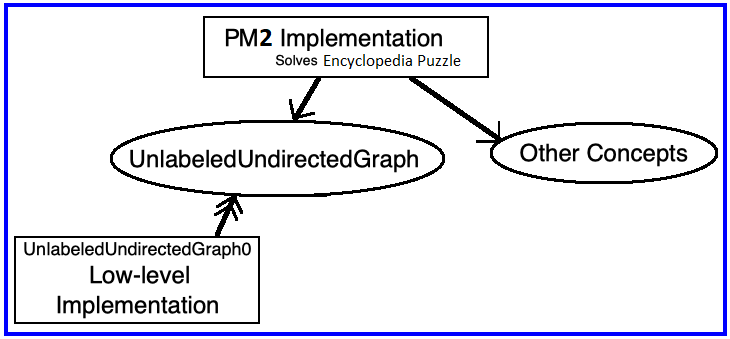
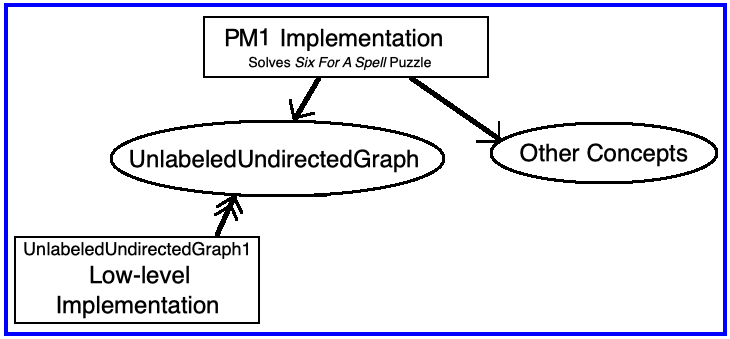
initial changes for 2024

Changed region(s): [[0.3315, 0.0885, 0.6329, 0.2065], [0.3315, 0.708, 0.3616, 0.767]]

diff --git a/Assignments/2024/PM2/PM2.html b/Assignments/2024/PM2/PM2.html
@@ -3,12 +3,12 @@
 <html>
 <head>
 <meta charset="utf-8">
-<title>Project M2</title>
+<title>Project M1</title>
 <link href="../../../css/style.css" rel="stylesheet" type="text/css">
 </head>
 
 <body>
-<h1>Project M5</h1>
+<h1>Project M1</h1>
 <hr />
 	
 		
@@ -17,18 +17,18 @@
   <tbody>
     <tr>
       <td valign="top">
-		  <h4>1.1 Get the PM2Starter Download</h4>
+		  <h4>1.1 Get the PM1Starter Download</h4>
         <ul>
-          <li>Download <em>PM2Starter.zip</em>&nbsp;to your machine - to be used in subsequent steps</li>
+          <li>Download <em>PM1Starter.zip</em>&nbsp;to your machine - to be used in subsequent steps</li>
         </ul>
 		
 		
-        <h4>1.2 Copy the PM2 Folder from the PM2Starter.zip</h4>
+        <h4>1.2 Copy the PM1 Folder from the PM1Starter.zip</h4>
         <ul>
-          <li>Inside PM2Starter.zip is a folder named PM2 </li>
+          <li>Inside PM1Starter.zip is a folder named PM1 </li>
 			    <ul>
-          <li>Copy the PM2 folder to your <em>csse373devenv202330-yourID</em> folder as shown in the screen shot in Figure 1</li>
-          <li>Once you have copied this folder you can use VS2022 to open the PM2 project by double clicking on PM2.sln  </li>
+          <li>Copy the PM1 folder to your <em>csse373devenv202330-yourID</em> folder as shown in the screen shot in Figure 1</li>
+          <li>Once you have copied this folder you can use VS2022 to open the PM1 project by double clicking on PM1.sln  </li>
 		  <li>The contents of this folder are shown in the screen shot in Figure 2</li>
 			</ul>
         </ul>
@@ -38,12 +38,12 @@
     </tr>
     <tr>
       <td valign="top">
-        <h4>1.3 About Project PM2</h4>
+        <h4>1.3 About Project PM1</h4>
         <ul>
           <li>It contains a Visual Studio 2022 project (see screen shot in Figure 3)</li>
-          <li>It can be opened with VS2022 by double clicking on the file PM2.sln</li>
+          <li>It can be opened with VS2022 by double clicking on the file PM1.sln</li>
           <li>It will build correctly if you have followed the instructions in 1.1 - 1.2 (above)</li>
-          <li>PM2 contains .h files and driver.cpp files that you will work on to complete this part of the project<br>
+          <li>PM1 contains .h files and driver.cpp files that you will work on to complete this part of the project<br>
 			  The <b>ToDos</b> are in operation <i>main</i>, see (4.4) below</li>
 			<ul>
 				<li>(1) <i>CharacterCArray.h</i> - creates an instance of CeramicArray; used to hold the puzzle word, e.g., the word "encyclopedia"; <i>No ToDo here</i></li>
@@ -63,10 +63,10 @@
 	  
 	  <tr>
       <td valign="top">
-		  <h4>1.4 About Project PM2's Command Line Arguments</h4>
+		  <h4>1.4 About Project PM1's Command Line Arguments</h4>
 	    <ul>
 		  <li><em>main</em> is programed to take command line arguments (see screen shot in Figure 5, below)</li>
-		  <li>When executing program from inside VS2022 using the Start Debugging command, you must provide the command line arguments in PM2's <em>Project Settings</em> (see screen shot in Figure 4)</li>
+		  <li>When executing program from inside VS2022 using the Start Debugging command, you must provide the command line arguments in PM1's <em>Project Settings</em> (see screen shot in Figure 4)</li>
 		  <li>Edit the Project Settings (as shown in Figure 4) and change 2nd command line parameter (currently set to <em>dataReact.dat</em>) to <em>dataEncyclopedia.dat</em> when you are ready to test against the encyclopedia puzzle</li>
 		  </ul>
 	    <img src="PM2MainCommandLineArgspng.png" width="800" height="200" alt=""/><br>
@@ -78,20 +78,20 @@
   </tbody>
 </table>
 
-<h3>2. PM2 Statement of Work</h3>
+<h3>2. PM1 Statement of Work</h3>
 	<table width="100%" border="1">
   <tbody>
     <tr>
       <td valign="top">
 		  
-  <h4>Solve the Encyclopedia Search Puzzle (Figure 6)</h4>
+  <h4>Solve the Six for a Spell Puzzle (Figure 8)</h4>
 	    <ul>
-  <li>As your starting place, use the <em>driver.cpp</em> found in &quot;PM2 Starter Files&quot; (see References above)</li>
-  <li>Modify PM2's <em>driver.cpp</em> by finding the <strong>ToDos</strong> and completing them</li>
+  <li>As your starting place, use the <em>driver.cpp</em> found in &quot;PM1 Starter Files&quot; (see References above)</li>
+  <li>Modify PM1's <em>driver.cpp</em> by finding the <strong>ToDos</strong> and completing them</li>
   
   <li>Your implementation must: 
     <ol>
-      <li>Be in a Visual Studio project called PM2 and be stored in your repository</li>
+      <li>Be in a Visual Studio project called PM1 and be stored in your repository</li>
       <li>The <em>driver.cpp</em> must use the operations provided that load the dictionary and graph data (see 4.1 through 4.2 in Figure 3)</li>
       <li>Use depth first search algorithm(s) search the puzzle for words of a specified length</li>
 	<li>Must first output the found words by completing <strong>ToDo</strong>'s 2 and 3 in driver.cpp's <em>main</em> operation</li>
@@ -125,9 +125,9 @@
   </li>
  </ul>
 		<p align="center"><img src="PM2React.png" width="374" height="418" alt=""/><br><strong>Figure 7</strong></p>
-<h3>3. Grading of PM2</h3>
+<h3>3. Grading of PM1</h3>
 <ul>
-  <li>Your <em>driver.cpp</em> from the folder PM2 will be compiled/built/tested </li>
+  <li>Your <em>driver.cpp</em> from the folder PM1 will be compiled/built/tested </li>
   <li>Your program will be tested/executed against a graph data file and word search length of the instructor's choosing</li>
   <li>Your output, i.e., the words found by your search program, will be redirected to an output file and compared against the instructor's solution</li>
   <li>Assessment will be based on the actual words found and the code found in <em>driver.cpp</em></li>
@@ -136,8 +136,8 @@
 		  <h3>4. Submitting the Assignment for Grading</h3>
 <ul>
   <li>Follow <a href="https://drholly77.github.io/CSSE373Pages/LabRelated/" target="_blank">VS2022 instructions</a> for <em>committing and pushing</em> your 
-    completed <em>PM2</em> project to your GitHub Education CSSE373 repo</li>
-  <li>Use the commit message &quot;PM2, ready for grading&quot;</li>
+    completed <em>PM1</em> project to your GitHub Education CSSE373 repo</li>
+  <li>Use the commit message &quot;PM1, ready for grading&quot;</li>
 </ul>
 		  
 	  </td>
@@ -146,7 +146,24 @@
 			  <strong>Figure 6</strong></p>
 		  
      <p align="center"> <img src="SixForSpellPuzzle-Sp2024.png" width="600" height="528" alt=""/><br>
-		 <br><strong>Figure 8</strong></p></td>
+		 <br><strong>Figure 8</strong><br><br></p>
+<pre>
+g = (
+   {1,2,3,4,5,6,7,8,9,10,11,12,13},
+   {{1,2},{1,6},{1,7},{1,8},{1,13}
+    {2,3},{2,8},{2,9},{2,13},
+    {3,4},{3,9},{3,10},{3,13}
+    {4,5},{4,10},{4,11},{4,13}
+    {5,6},{5,11},{5,12},{5,13}
+    {6,7},{6,12},{6,13},
+    {7,8},{7,12},{7,13},
+    {8,9},{8,13},
+    {9,10},{9,13},
+    {10,11},{11,13},
+    {11,12},{11,13},
+    {12,13}}
+)
+</pre></td>
     </tr>
   </tbody>
 </table>
